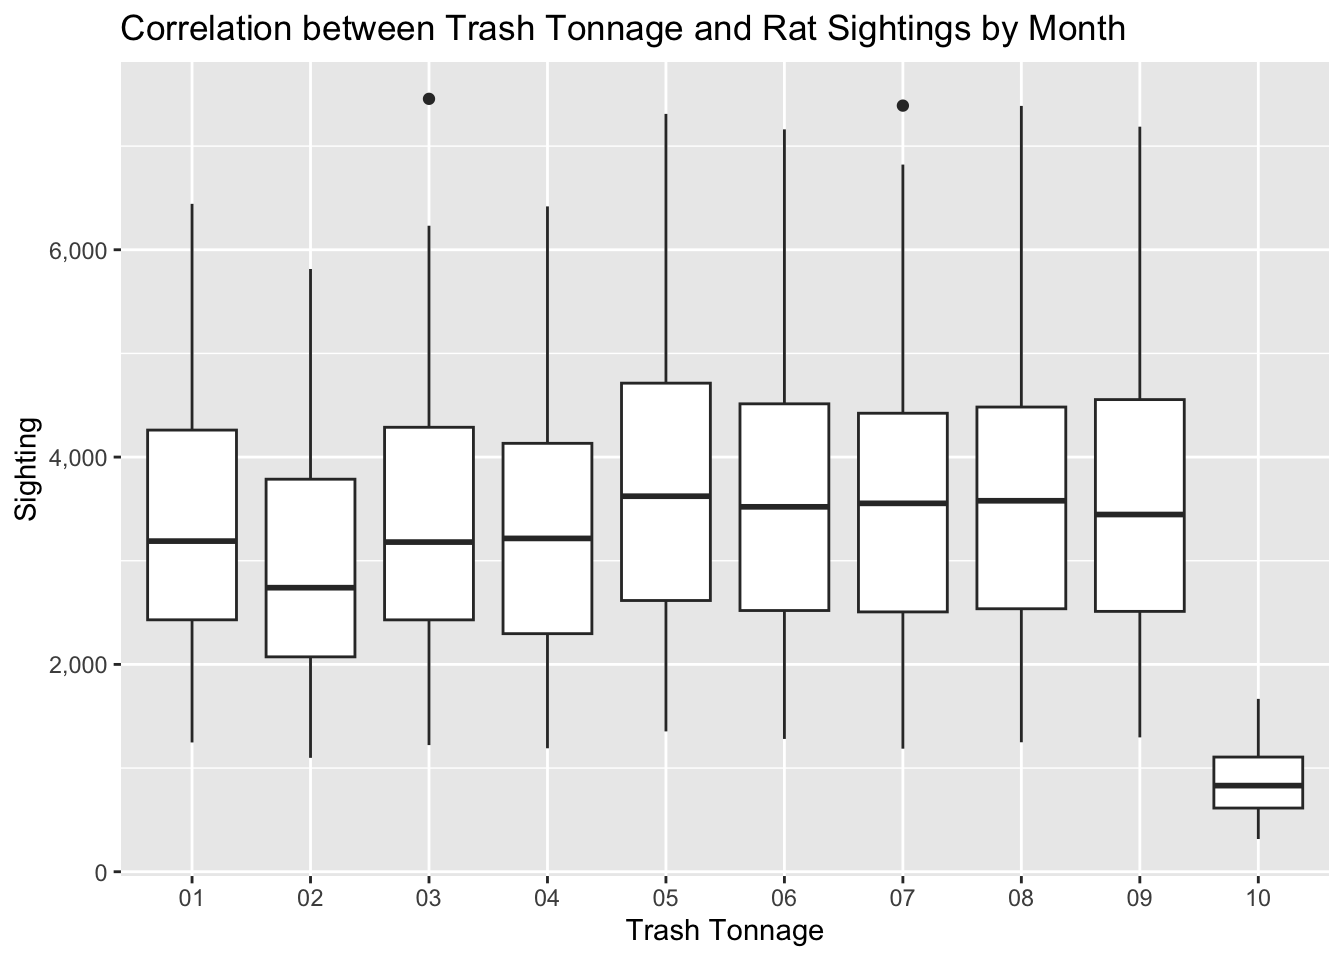
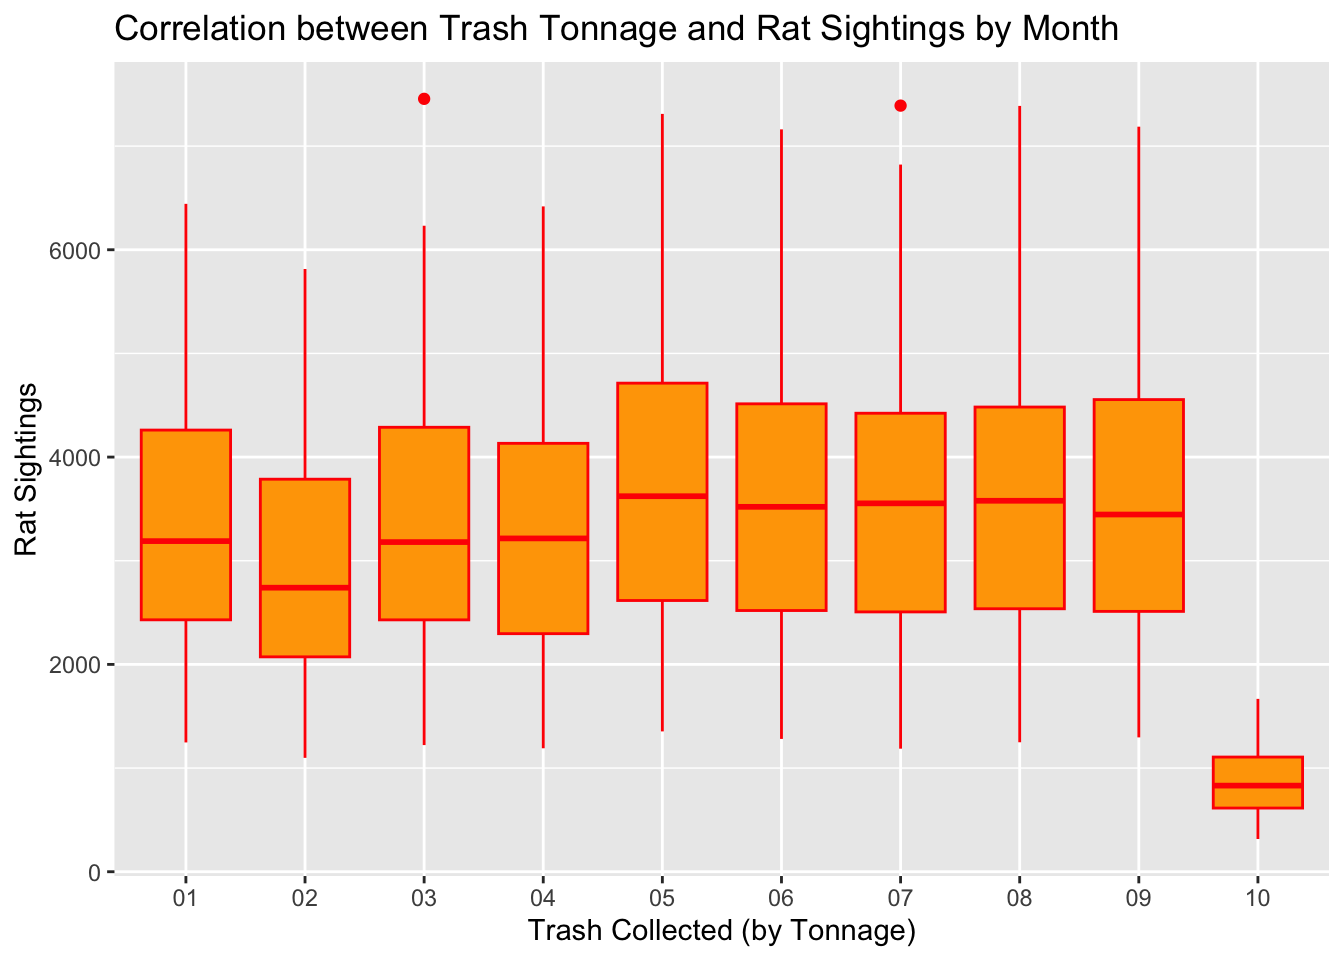
Completed third graph and fixed color on fourth graph

diff --git a/visualizations.html b/visualizations.html
@@ -397,31 +397,28 @@ ggplot(rat_activity_counts, aes(x = month, y = count)) +
 </div>
 <div id="table-3" class="section level2">
 <h2>Table 3</h2>
+<pre class="r"><code>ggplot(rat_activity_counts, aes(x = month, y = count)) + 
+  geom_point() +
+  labs(title = &quot;Frequency of Rat Activity by Month&quot;,
+       x = &quot;Month&quot;,
+       y = &quot;Frequency&quot;)</code></pre>
+<p><img src="visualizations_files/figure-html/unnamed-chunk-4-1.png" width="672" /></p>
 </div>
 <div id="table-4" class="section level2">
 <h2>Table 4</h2>
 <pre class="r"><code>rat_activity_counts =
   rat_merge_df |&gt; 
   filter(result == &quot;Rat Activity&quot;) |&gt; 
-  group_by(month, refusetonscollected) |&gt;
-  summarise(count = n())</code></pre>
+  group_by(month, refusetonscollected) |&gt; 
+  summarise(count = n()) </code></pre>
 <pre><code>## `summarise()` has grouped output by &#39;month&#39;. You can override using the
 ## `.groups` argument.</code></pre>
-<pre class="r"><code>view(rat_activity_counts)
-
-ggplot(rat_activity_counts, aes(x = month, y = refusetonscollected, color = count)) +
-  geom_boxplot() +
+<pre class="r"><code>ggplot(rat_activity_counts, aes(x = month, y = refusetonscollected, color = count)) +
+  geom_boxplot(color=&quot;red&quot;,fill=&quot;orange&quot;) +
   labs(title = &quot;Correlation between Trash Tonnage and Rat Sightings by Month&quot;,
-       x = &quot;Trash Tonnage&quot;,
-       y = &quot;Sighting&quot;) +
-  scale_y_continuous(labels = scales::comma_format(scale = 1e+0))</code></pre>
-<pre><code>## Warning: The following aesthetics were dropped during statistical transformation: colour
-## ℹ This can happen when ggplot fails to infer the correct grouping structure in
-##   the data.
-## ℹ Did you forget to specify a `group` aesthetic or to convert a numerical
-##   variable into a factor?</code></pre>
+       x = &quot;Trash Collected (by Tonnage)&quot;,
+       y = &quot;Rat Sightings&quot;) </code></pre>
 <p><img src="visualizations_files/figure-html/unnamed-chunk-5-1.png" width="672" /></p>
-<pre class="r"><code>## Ask if we should add color to the plot</code></pre>
 </div>
 </div>
 
